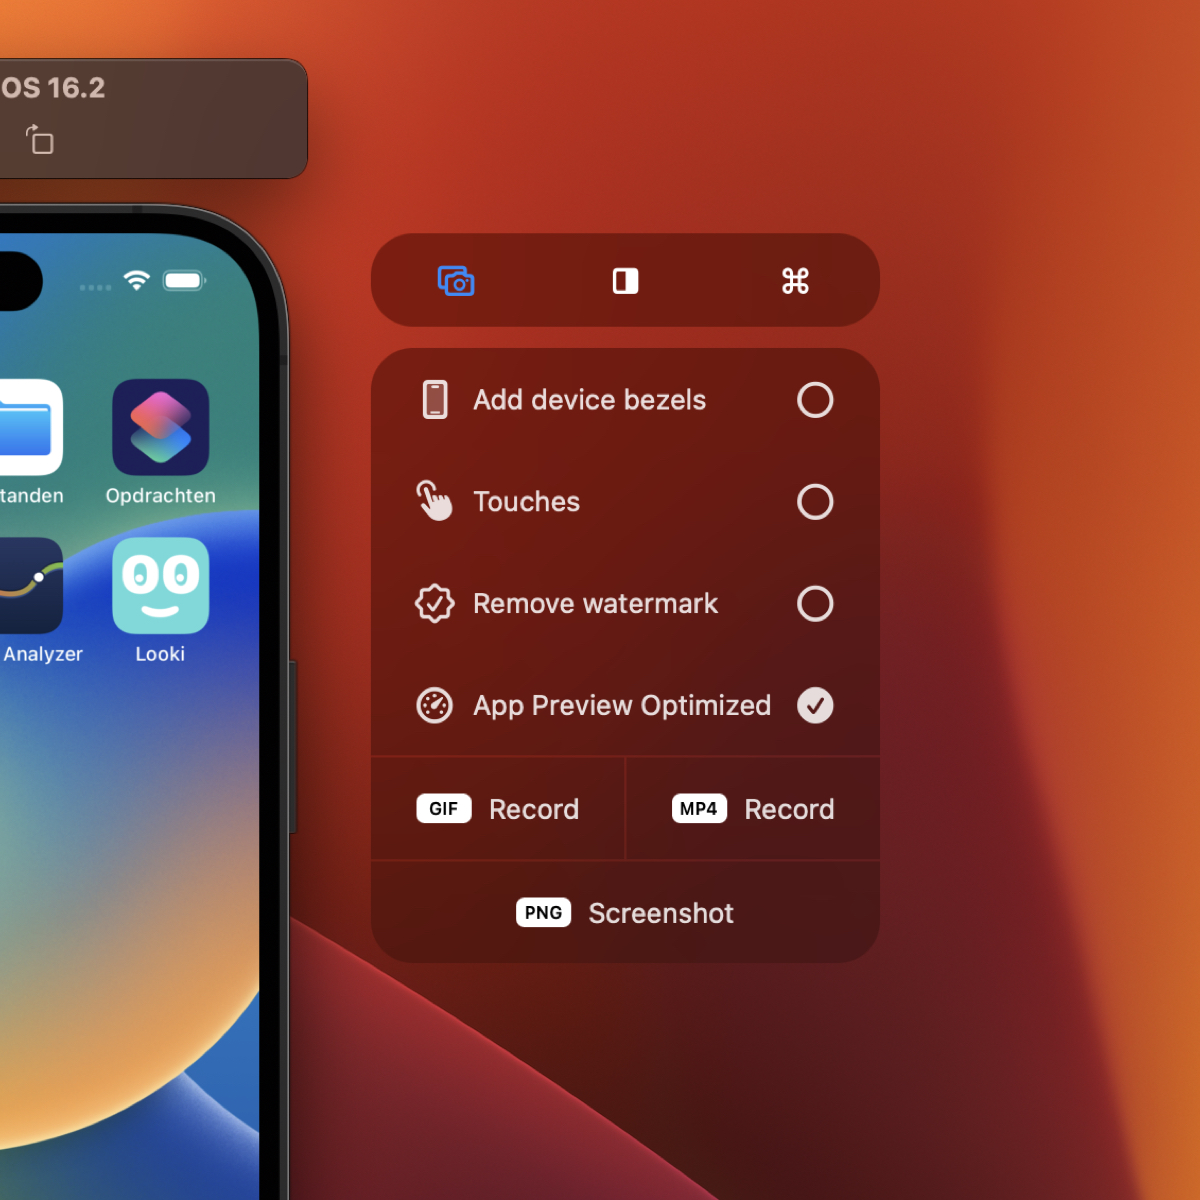
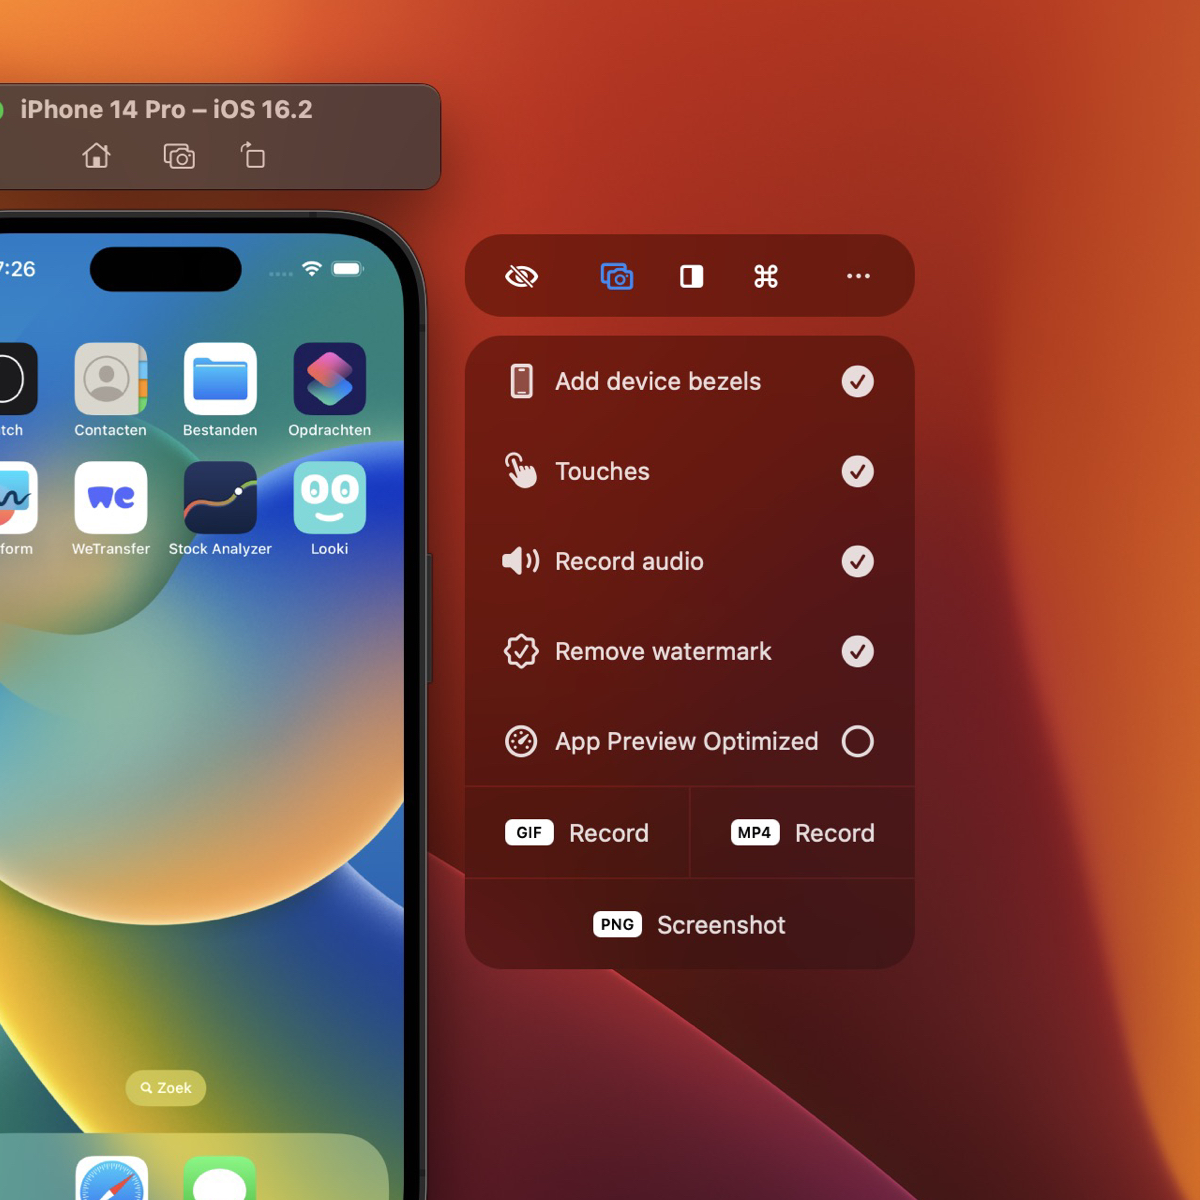
Update website for audio recording

diff --git a/docs/index.html b/docs/index.html
@@ -93,7 +93,7 @@
                         <a class="blog-logo" href="https://www.rocketsim.app/" rel="home">RocketSim</a>
                     </h1>
                     <h2 class="section-headline">Enhancing the iOS Simulator</h2>
-                    <p class="gray-text">Compare designs, show rulers, add a grid, quick actions for recent builds. Create recordings with touches, trim and export them into MP4 or GIF and share them anywhere using drag & drop. Add bezels to screenshots and videos.</p>
+                    <p class="gray-text">Compare designs, show rulers, add a grid, quick actions for recent builds. Create recordings with touches & audio, trim and export them into MP4 or GIF and share them anywhere using drag & drop. Add bezels to screenshots and videos.</p>
 
                     <p class="gray-text">And that's not all. Organise and launch Universal Links (deeplinks) with ease.</p>
                 </div>
@@ -297,6 +297,7 @@
                             <li><span class="text-headline">Touches</span> make a difference in telling a story. Share professional recordings of a new feature with your friends and colleagues</li>
                             <li>Optimize for App Store Connect <span class="text-headline">App Previews</span> and stop wasting time using tools like FFmpeg to conform to the <a href="https://help.apple.com/app-store-connect/?lang=en/#/dev4e413fcb8" target="_blank"><u>App Preview specifications</u></a></li>
                             <li>Add bezels to your <span class="text-headline">screenshots</span> for a professional impression</li>
+                            <li><span class="text-headline">Record audio</span> to make it complete</li>
                         </ul>
                     </span>
                 </div>
